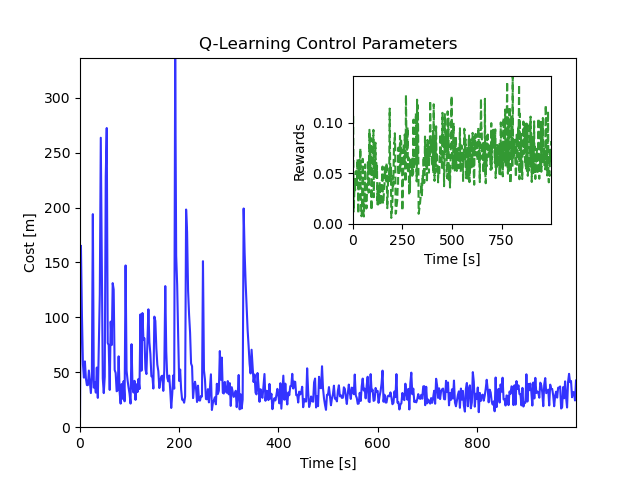
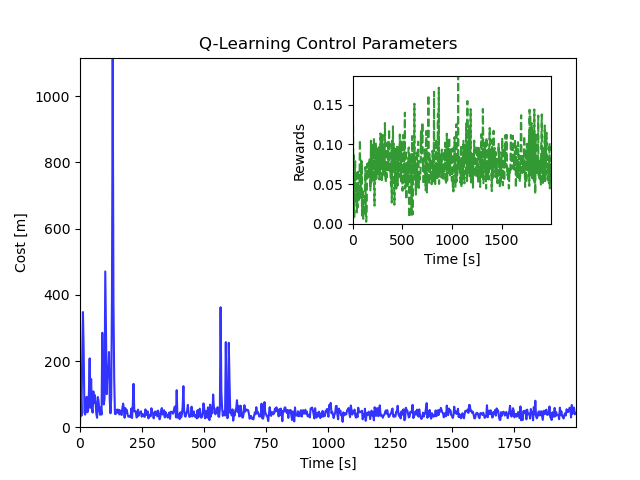
tuning learning rates

diff --git a/main.py b/main.py
@@ -32,7 +32,7 @@ from mpl_toolkits.axes_grid.inset_locator import (inset_axes, InsetPosition, mar
 # --------------------
  
 Ti = 0.0        # initial time
-Tf = 1000         # final time 
+Tf = 2000         # final time 
 Ts = 0.1        # sample time
 Tz = 0.005      # integration step size
 
@@ -66,7 +66,7 @@ costs_all[0,:] = trial_cost
 nParams     = 2    # number of parameters to tune
 nOptions    = 10   # number of options to selection from (ranges between 0 and nOptions)
 scale       = 1    # scale the value of the options (i.e. scale*[0:nOptions])
-Tl          = 2    # length of trial [s]
+Tl          = 3    # length of trial [s]
 trial_counter = Ts  # initialize counter 
 trial_cost    = 0  # initialze cost 
 explore_rate  = 1  # how often to explore, 0 to 1 (start high, decrease)
@@ -161,7 +161,7 @@ while round(t,3) < Tf:
         target_rand2 = 5*random.uniform(-1, 1)
         
         # reduce the explore rate (floors at 0.001)
-        explore_rate = np.maximum(0.992**t,0.001)-0.001
+        explore_rate = np.maximum(0.995**t,0.001)-0.001
         #print(explore_rate)
         
 

diff --git a/qLearnLib.py b/qLearnLib.py
@@ -15,8 +15,8 @@ import random
 #nState = 2          # number of states
 #nAction = 2         # number of actions
 #explore_rate = 0.8  # how often to explore, 0 to 1
-learn_rate = 0.6    # how much to accept new observations, alpha/lambda, 0.9
-discount = 0.99      # balance immediate/future rewards, (gamma): 0.8 to 0.99
+learn_rate = 0.2    # how much to accept new observations, alpha/lambda, 0.9
+discount = 0.9      # balance immediate/future rewards, (gamma): 0.8 to 0.99
 
 
 # Initialize Q table
